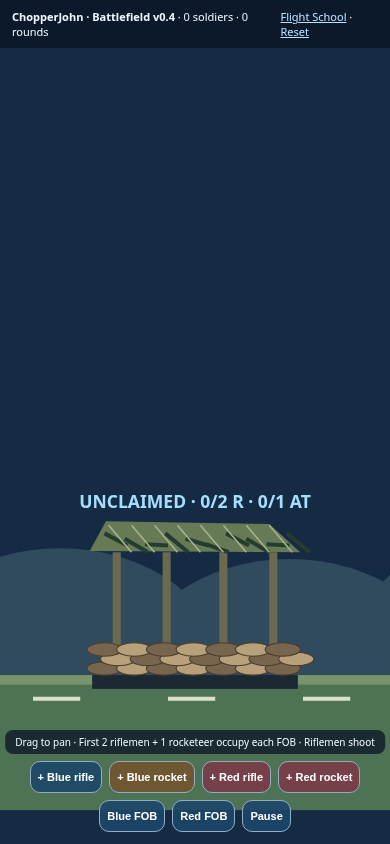
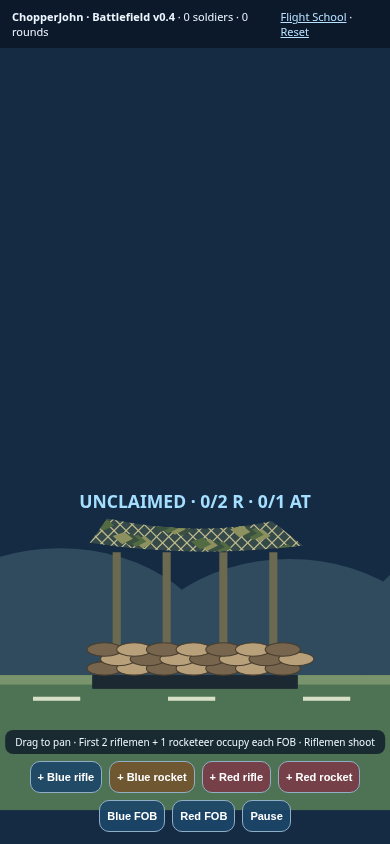
Render porous camouflage net and retain lifecycle traces

Changed region(s): [[0.2154, 0.6161, 0.7692, 0.6777]]

diff --git a/docs/js/battlefield/bases/forwardBase.js b/docs/js/battlefield/bases/forwardBase.js
@@ -33,15 +33,28 @@ export function releaseDeadDefenders(b,aliveIds){
 }
 export function drawForwardBase(ctx,b){
  drawFoundation(ctx,b);
- const front="#b7a07a",shadow="#77664d";
  // Four posts holding a camouflaged fabric roof.
  ctx.strokeStyle="#6b6a50";ctx.lineWidth=6;
  for(const x of [-58,-21,21,58]){ctx.beginPath();ctx.moveTo(x,-12);ctx.lineTo(x,-91);ctx.stroke();}
- ctx.fillStyle="#667a55";ctx.beginPath();ctx.moveTo(-78,-92);ctx.lineTo(-66,-114);ctx.lineTo(55,-112);ctx.lineTo(78,-91);ctx.closePath();ctx.fill();
- ctx.strokeStyle="#263c31";ctx.lineWidth=3;
- for(let j=0;j<10;j++){const x=-67+j*15;ctx.beginPath();ctx.moveTo(x,-105+(j%3)*4);ctx.lineTo(x+17,-96+(j%2)*5);ctx.stroke();}
- ctx.strokeStyle="#a7b28b";ctx.lineWidth=1.2;
- for(let j=0;j<8;j++){const x=-64+j*17;ctx.beginPath();ctx.moveTo(x,-111);ctx.lineTo(x+17,-91);ctx.stroke();}
+ // FOB-01: a porous, sagging camouflage net rather than an opaque hut roof.
+ ctx.save();
+ ctx.beginPath();ctx.moveTo(-78,-98);ctx.lineTo(-65,-116);
+ ctx.quadraticCurveTo(0,-102,57,-114);ctx.lineTo(80,-96);
+ ctx.quadraticCurveTo(0,-86,-78,-98);ctx.closePath();
+ ctx.fillStyle="#74845b55";ctx.fill();ctx.clip();
+ ctx.strokeStyle="#c0bd8e";ctx.lineWidth=.9;
+ for(let x=-100;x<100;x+=9){
+  ctx.beginPath();ctx.moveTo(x,-120);ctx.lineTo(x+35,-85);ctx.stroke();
+  ctx.beginPath();ctx.moveTo(x,-85);ctx.lineTo(x+35,-120);ctx.stroke();
+ }
+ // Uneven tied-on foliage patches leave the mesh visibly open.
+ for(let i=0;i<20;i++){
+  const x=-75+(i*29)%150,y=-113+(i*13)%22;
+  ctx.fillStyle=["#536b42","#8d9160","#3b5140"][i%3];
+  ctx.beginPath();ctx.moveTo(x,y);ctx.lineTo(x+9,y-3);
+  ctx.lineTo(x+15,y+2);ctx.lineTo(x+7,y+6);ctx.closePath();ctx.fill();
+ }
+ ctx.restore();
  ctx.fillStyle=baseTextColor(b.team);ctx.font="bold 13px system-ui";ctx.textAlign="center";
  ctx.fillText(b.state+" · "+b.slots.rifle.filter(x=>x!==null).length+"/2 R · "+b.slots.rocket.filter(x=>x!==null).length+"/1 AT",0,-124);
  // Flag physically rises only after the occupation requirement is satisfied.
